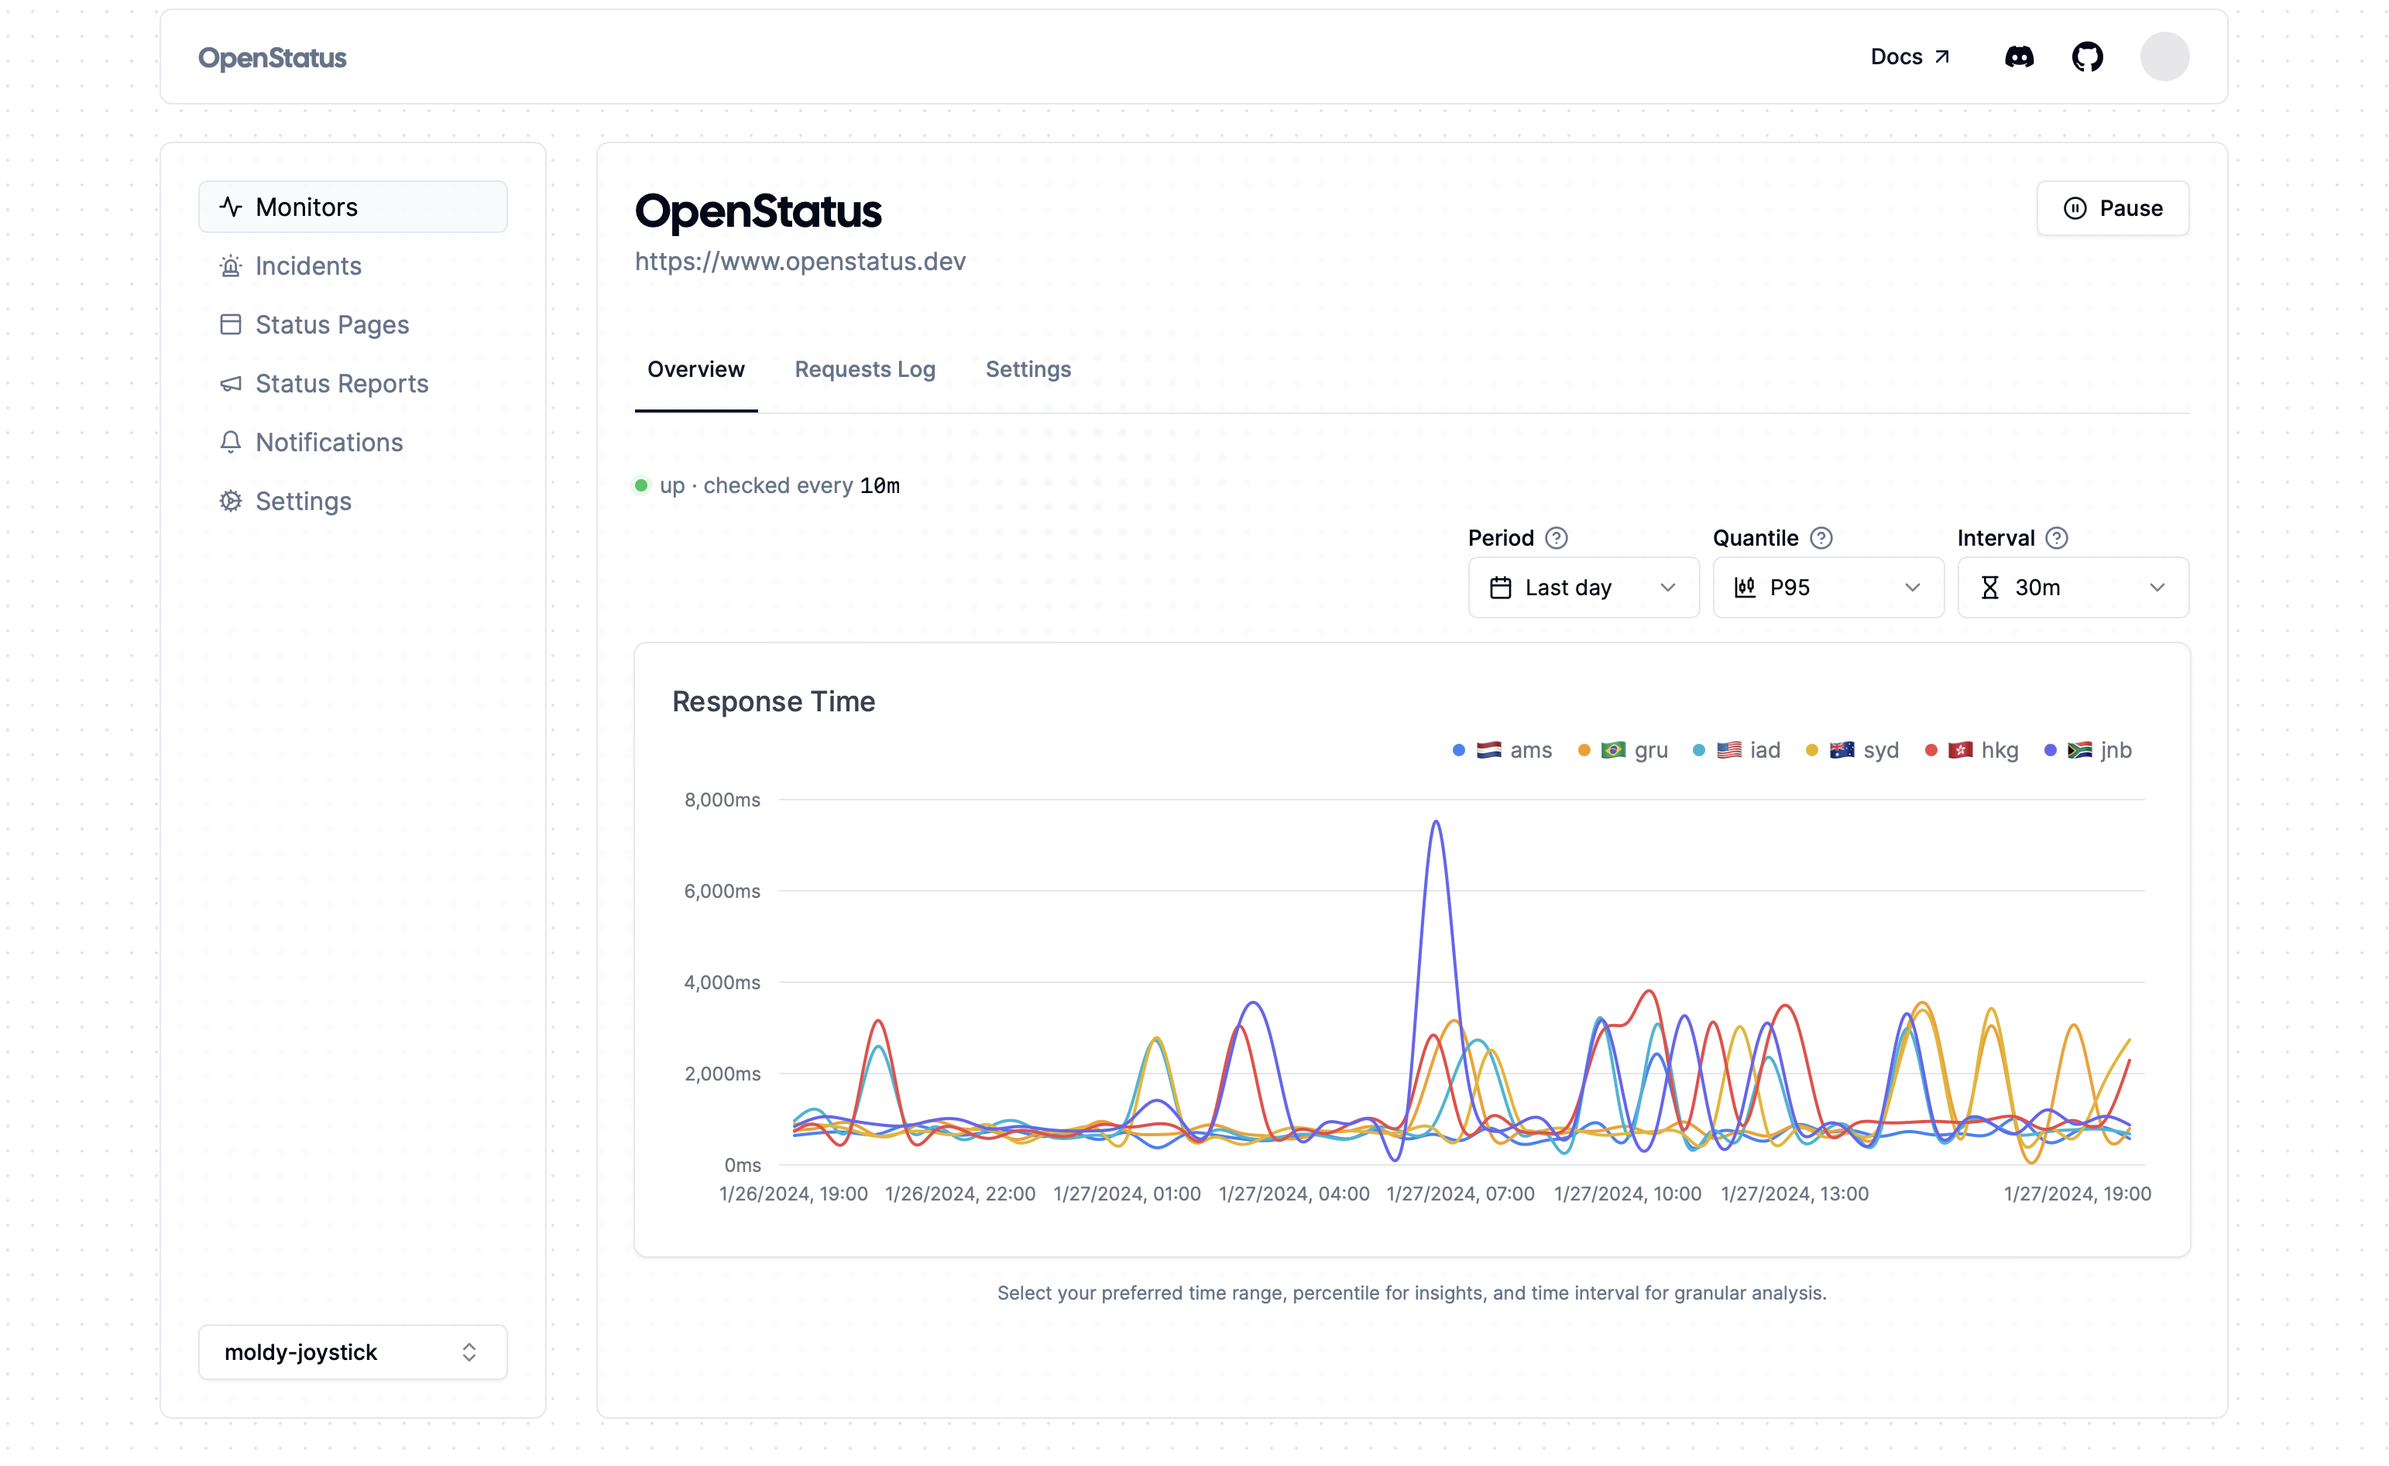
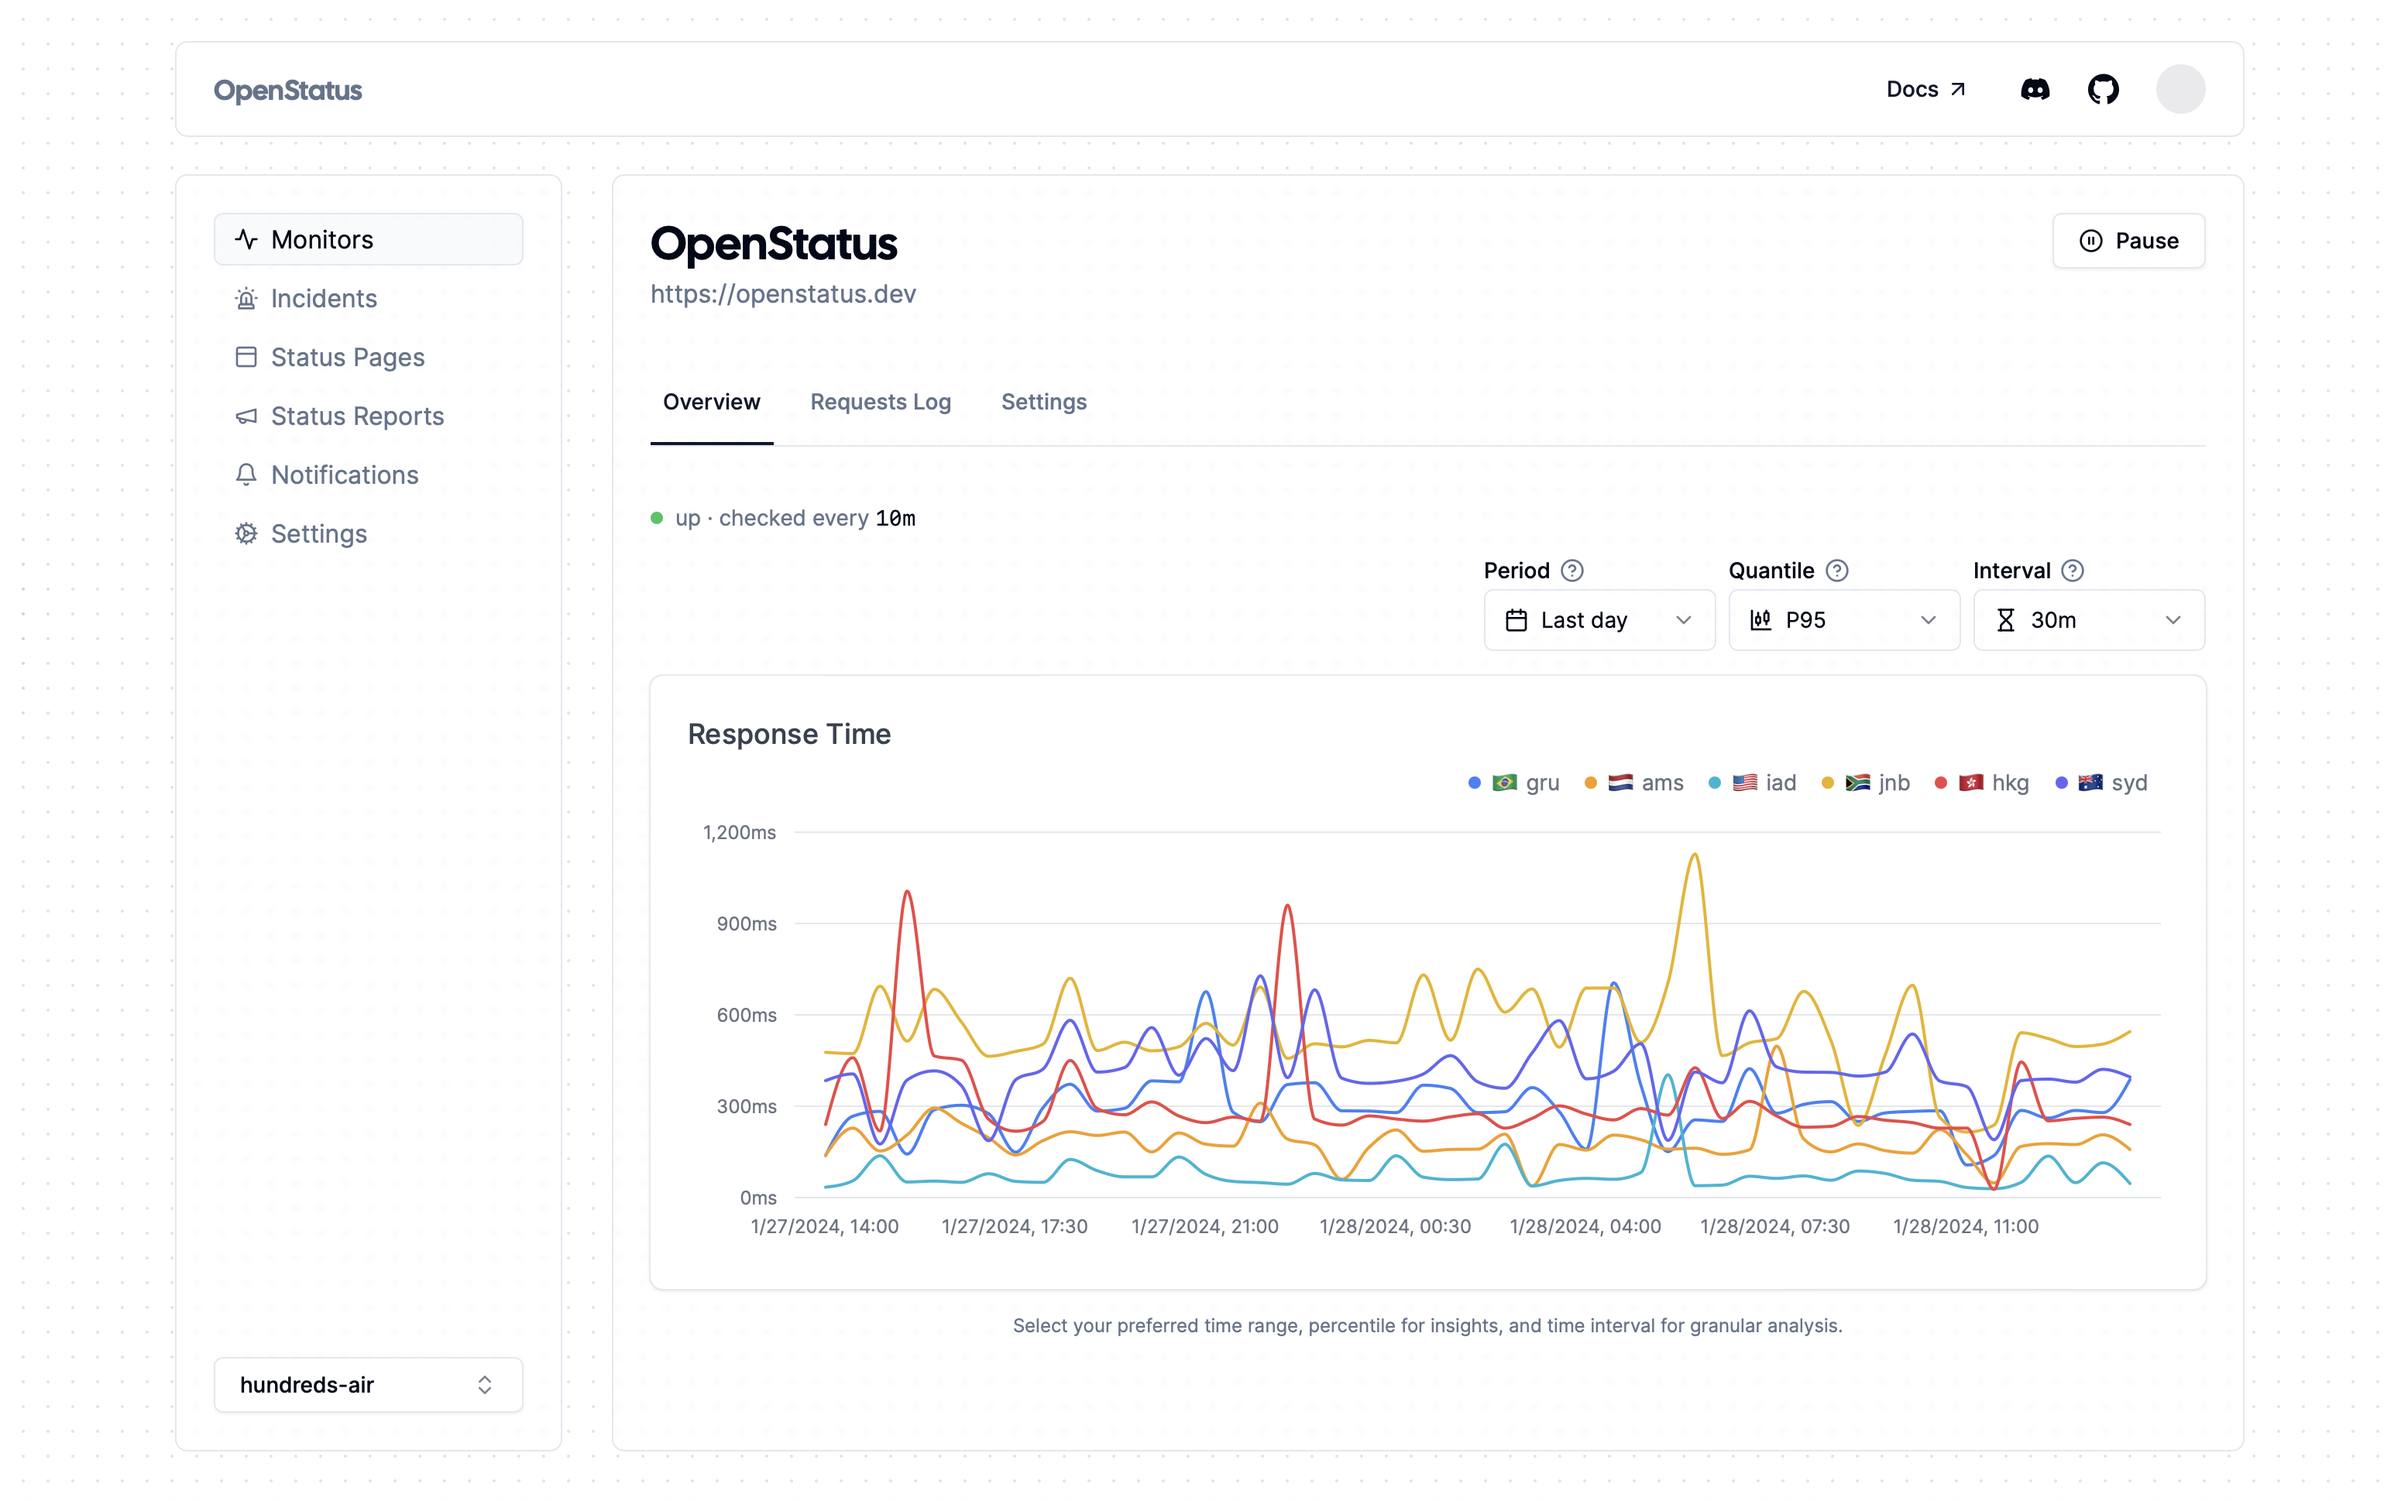
fix: chart equidistant x axis

diff --git a/apps/web/src/app/app/[workspaceSlug]/(dashboard)/monitors/[id]/overview/_components/chart.tsx b/apps/web/src/app/app/[workspaceSlug]/(dashboard)/monitors/[id]/overview/_components/chart.tsx
@@ -1,5 +1,6 @@
 "use client";
 
+import type { CustomTooltipProps } from "@tremor/react";
 import { Card, LineChart, Title } from "@tremor/react";
 
 const dataFormatter = (number: number) =>
@@ -41,7 +42,35 @@ export function Chart({ data, regions }: ChartProps) {
         onValueChange={(v) => void 0} // that prop makes the chart interactive
         valueFormatter={dataFormatter}
         curveType="monotone"
+        intervalType="equidistantPreserveStart"
+        // customTooltip={customTooltip}
       />
     </Card>
   );
 }
+
+// TBD: add custom tooltip
+const customTooltip = ({ payload, active }: CustomTooltipProps) => {
+  if (!active || !payload) return null;
+  return (
+    <div className="rounded-tremor-default text-tremor-default bg-tremor-background shadow-tremor-dropdown border-tremor-border w-36 border p-2">
+      <div className="flex flex-col gap-3">
+        {payload
+          .filter((category) => category.type !== undefined) // tremor adds additional data to the payload, we don't want that
+          .map((category, idx) => (
+            <div key={idx} className="flex flex-1 gap-2">
+              <div
+                className={`flex w-1 flex-col bg-${category.color}-500 rounded`}
+              />
+              <div className="flex gap-1">
+                <p className="text-tremor-content">{category.dataKey}</p>
+                <p className="text-tremor-content-emphasis font-mono font-medium">
+                  {dataFormatter(category.value as number)}
+                </p>
+              </div>
+            </div>
+          ))}
+      </div>
+    </div>
+  );
+};

diff --git a/apps/web/src/app/api/og/route.tsx b/apps/web/src/app/api/og/route.tsx
@@ -44,16 +44,13 @@ export async function GET(req: Request) {
     (
       <Background tw="justify-start items-start">
         <div
-          style={{
-            clipPath: "polygon(90% 0%, 200% 0%, 200% 200%, -30% 200%)",
-            zIndex: -1,
-          }}
+          style={{ clipPath: "polygon(90% 0%, 200% 0%, 200% 200%, -30% 200%)" }}
           tw="flex absolute h-full w-full bg-slate-200"
         >
           <img
             alt=""
             style={{ objectFit: "cover" }}
-            tw="flex w-full"
+            tw="flex w-full h-full"
             src={new URL(image, DEFAULT_URL).toString()}
           />
         </div>
@@ -61,7 +58,6 @@ export async function GET(req: Request) {
         <div
           style={{
             clipPath: "polygon(90% 0%, 170% 0%, -30% 200%, -29% 200%)",
-            zIndex: -1,
             // from-slate-100 to-slate-300
             backgroundImage:
               "linear-gradient(to bottom left, #f1f5f9, #cbd5e1)",
